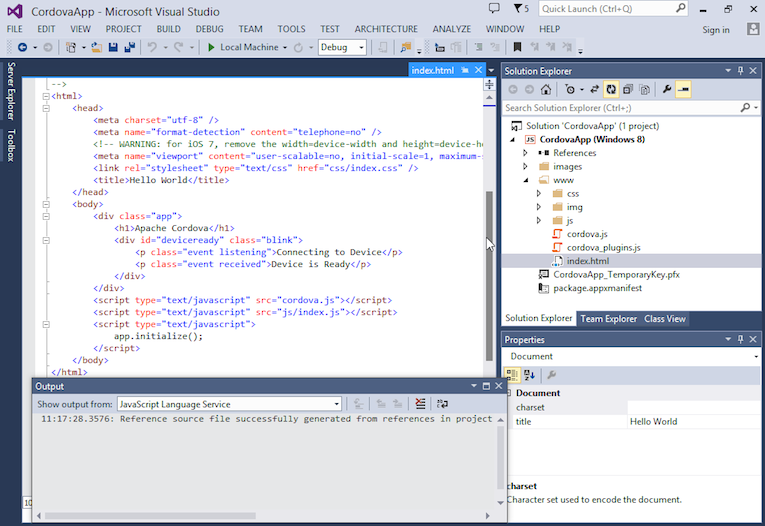
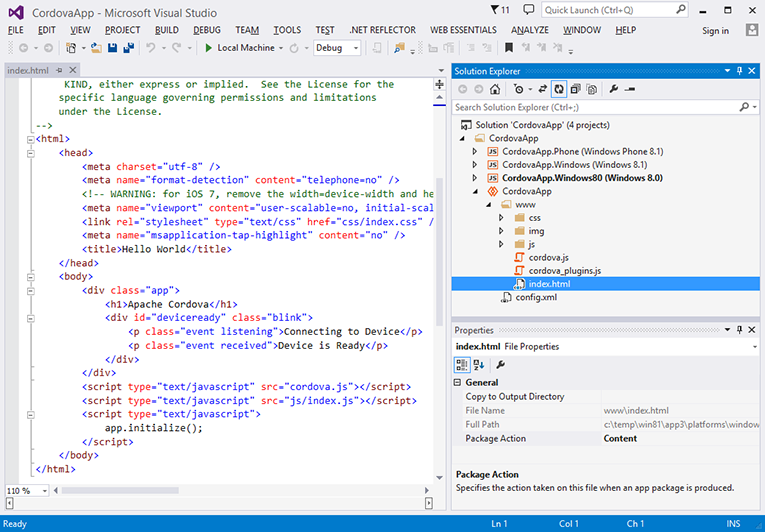
CB-6976 Windows Universal apps

diff --git a/docs/en/edge/guide/platforms/win8/index.md b/docs/en/edge/guide/platforms/win8/index.md
@@ -17,39 +17,47 @@ license: Licensed to the Apache Software Foundation (ASF) under one
          under the License.
 ---
 
-# Windows 8 Platform Guide
+# Windows Platform Guide
 
-This guide shows how to set up your SDK development environment to
-deploy Cordova apps in Windows 8.  It shows how to use either shell
-tools specific to Windows 8 to generate and build apps, or the
-cross-platform Cordova CLI discussed in The Command-Line Interface.
+This guide shows how to set up your SDK development environment to build 
+and deploy Cordova apps for Windows 8, Windows 8.1 and Windows Phone 8.1.
+It shows how to use either shell tools to generate and build apps, or 
+the cross-platform Cordova CLI discussed in The Command-Line Interface.
 (See the Overview for a comparison of these development options.) This
 section also shows how to modify Cordova apps within Visual Studio.
-Regardless of which approach you take, you need to install the Visual
-Studio SDK, as described below.
+Regardless of which approach you take, you need to install the 
+Visual Studio SDK, as described below.
 
 See Upgrading Windows 8 for information on how to upgrade existing
 Windows 8 Cordova projects.
 
-Cordova WebViews running on Windows 8 rely on Internet Explorer 10 as
-their rendering engine, so as a practical matter you can use IE10's
+Window Phone 8 (wp8) stays as a separate platform,
+see Windows Phone 8 Platform Guide for details.
+
+Cordova WebViews running on Windows rely on Internet Explorer 10 (Windows 8)
+and Internet Explorer 11 (Windows 8.1 and Windows Phone 8.1) as
+their rendering engine, so as a practical matter you can use IE's
 powerful debugger to test any web content that doesn't invoke Cordova
 APIs.  The Windows Phone Developer Blog provides
 [helpful guidance](http://blogs.windows.com/windows_phone/b/wpdev/archive/2012/11/15/adapting-your-webkit-optimized-site-for-internet-explorer-10.aspx)
-on how to support IE10 along with comparable WebKit browsers.
+on how to support IE along with comparable WebKit browsers.
 
 ## Requirements and Support
 
 You need one of the following OS/SDK combinations, either from an
-installation disk or an _ISO_ disk image file:
+installation disk or an _ISO_ disk image file.
+
+To develop apps for Windows 8.0 only:
 
 - Windows 8.0 or 8.1, 32 or 64-bit _Home_, _Pro_, or _Enterprise_
   editions, along with
   [Visual Studio 2012 Express](http://www.visualstudio.com/downloads).
 
+To develop apps for all platforms (Windows 8.0, Windows 8.1 and Windows Phone 8.1):
+
 - Windows 8.1, 32 or 64-bit _Home_, _Pro_, or _Enterprise_ editions,
   along with 
-  [Visual Studio 2013 Pro](http://www.visualstudio.com/downloads)
+  [Visual Studio 2013 Express](http://www.visualstudio.com/downloads)
   or higher. An evaluation version of Windows 8.1 Enterprise is
   available from the
   [Microsoft Developer Network](http://msdn.microsoft.com/en-US/evalcenter/jj554510).
@@ -65,10 +73,10 @@ to submit the app to Windows Store.
 
   <!-- true? -->
 
-To develop Cordova apps for Windows 8, you may use a PC running
+To develop Cordova apps for Windows, you may use a PC running
 Windows, but you may also develop on a Mac, either by running a
 virtual machine environment or by using Boot Camp to dual-boot a
-Windows 8 partition. Consult these resources to set up the required
+Windows 8.1 partition. Consult these resources to set up the required
 Windows development environment on a Mac:
 
 - [VMWare Fusion](http://msdn.microsoft.com/en-US/library/windows/apps/jj945426)
@@ -79,22 +87,22 @@ Windows development environment on a Mac:
   
 ## Using Cordova Shell Tools
 
-If you want to use Cordova's Windows 8-centered shell tools in
+If you want to use Cordova's Windows-centered shell tools in
 conjunction with the SDK, you have two basic options:
 
 - Access them locally from project code generated by the CLI. They are
-  available in the `platforms/windows8/cordova` directory after you add
-  the `windows8` platform as described below.
+  available in the `platforms/windows/cordova` directory after you add
+  the `windows` platform as described below.
 
 - Download them from a separate distribution at
   [cordova.apache.org](http://cordova.apache.org).  The Cordova
   distribution contains separate archives for each platform.  Be sure
-  to expand the appropriate archive, `cordova-windows8\windows8` in
+  to expand the appropriate archive, `cordova-windows\windows` in
   this case, within an empty directory.  The relevant batch utilities
   are available in the top-level `bin` directory. (Consult the
   __README__ file if necessary for more detailed directions.)
 
-These shell tools allow you to create, build, and run Windows 8 apps.
+These shell tools allow you to create, build, and run Windows apps.
 For information on the additional command-line interface that enables
 plugin features across all platforms, see Using Plugman to Manage
 Plugins.
@@ -110,18 +118,18 @@ Install the _Ultimate_, _Premium_, or _Professional_ 2013 editions of
 
 At this point, to create a new project you can choose between the
 cross-platform CLI tool described in The Command-Line Interface, or
-the set of Windows 8-specific shell tools. From within a source-code
+the set of Windows-specific shell tools. From within a source-code
 directory, this CLI approach generates an app named _HelloWorld_
 within a new `hello` project directory:
 
         > cordova create hello com.example.hello HelloWorld
         > cd hello
-        > cordova platform add windows8
+        > cordova platform add windows
         > cordova build
 
 Here's the corresponding lower-level shell-tool approach:
 
-        C:\path\to\cordova-win8\bin\create.bat C:\path\to\new\hello com.example.hello HelloWorld
+        C:\path\to\cordova-win\bin\create.bat C:\path\to\new\hello com.example.hello HelloWorld
 
 ## Build the Project
 
@@ -130,12 +138,10 @@ top-level `www` directory contains the source files. Run either of
 these within the project directory to rebuild the app:
 
         > cordova build
-        > cordova build windows8   # do not rebuild other platforms
+        > cordova build windows   # do not rebuild other platforms
 
-If you are using the Windows Phone-specific shell tools in
-development, there is a different approach.  Once you generate the
-project, the default app's source is available in the
-`projects\windows8\www` subdirectory. Subsequent commands are available in
+Once you generate the project, the default app's source is available in the
+`projects\windows\www` subdirectory. Subsequent commands are available in
 the `cordova` subdirectory at the same level.
 
 The `build` command cleans project files and rebuilds the app.  The first
@@ -149,6 +155,29 @@ The `clean` command helps flush out directories in preparation for the
 next `build`:
 
         C:\path\to\project\cordova\clean.bat
+
+## Configure target Windows version
+
+By default `build` command produces two packages: Windows 8.0 and Windows Phone 8.1.
+To upgrade Windows package to version 8.1 the following configuration setting must be 
+added to configuration file (`config.xml`).
+
+        <preference name='windows-target-version' value='8.1' />
+
+Once you add this setting `build` command will start producing Windows 8.1 
+and Windows Phone 8.1 packages.
+
+## Deploy the app
+
+To deploy Windows Phone package:
+
+        > cordova run windows -- --phone  # deploy app to Windows Phone 8.1 emulator
+        > cordova run windows --device -- --phone  # deploy app to connected device
+
+To deploy Windows package:
+
+        > cordova run windows -- --win  # explicitly specify Windows as deployment target
+        > cordova run windows # `run` uses Windows package by default
 
 ## Open the Project in the SDK and Deploy the App
 

diff --git a/docs/en/edge/guide/cli/index.md b/docs/en/edge/guide/cli/index.md
@@ -44,7 +44,7 @@ platform's SDK. The CLI supports the following combinations:
 * Android         (Mac, Linux, Windows)
 * BlackBerry 10   (Mac, Linux, Windows)
 * Windows Phone 8 (Windows)
-* Windows 8       (Windows)
+* Windows         (Windows)
 * Firefox OS      (Mac, Linux, Windows)
 
 On the Mac, the command-line is available via the _Terminal_
@@ -54,7 +54,7 @@ _Accessories_.
 __NOTE__: For Windows-only platforms, you can still do your
 development on Mac hardware by running Windows in a virtual machine
 environment or in dual-boot mode. For available options, see the
-Windows Phone Platform Guide or the Windows 8 Platform Guide.
+Windows Phone 8 Platform Guide or the Windows Platform Guide.
 
 The more likely it is that you run the CLI from different machines,
 the more it makes sense to maintain a remote source code repository,
@@ -170,7 +170,7 @@ Run any of these from a Windows machine, where _wp_ refers to
 different versions of the Windows Phone operating system:
 
         $ cordova platform add wp8
-        $ cordova platform add windows8
+        $ cordova platform add windows
         $ cordova platform add amazon-fireos
         $ cordova platform add android
         $ cordova platform add blackberry10

diff --git a/docs/en/edge/guide/support/index.md b/docs/en/edge/guide/support/index.md
@@ -39,8 +39,8 @@ CLI's shorthand names.
         <th><tt>Firefox OS</tt></th>
         <th><tt>ios</tt></th>
         <th><tt>Ubuntu</tt></th>
-        <th><tt>wp8</tt> (Windows<br/>Phone 8)</th>
-        <th><tt>win8</tt><br/>(Windows 8)</th>
+        <th><tt>wp8</tt><br/>(Windows Phone 8)</th>
+        <th><tt>windows</tt><br/>(8.0, 8.1,<br/>Phone 8.1)</th>
         <th><tt>tizen</tt></th>
     </tr>
 
@@ -139,7 +139,7 @@ CLI's shorthand names.
         <td data-col="ios"        class="y"></td>
         <td data-col="ubuntu"        class="y"></td>
         <td data-col="winphone8"  class="y"></td>
-        <td data-col="win8"       class="n"></td>
+        <td data-col="win8"       class="y"></td>
         <td data-col="tizen"       class="n"></td>
     </tr>
 
@@ -178,7 +178,7 @@ CLI's shorthand names.
         <td data-col="ios"        class="y"></td>
         <td data-col="ubuntu"        class="y"></td>
         <td data-col="winphone8"  class="y"></td>
-        <td data-col="win8"       class="n"></td>
+        <td data-col="win8"       class="p">partially</td>
         <td data-col="tizen"       class="n"></td>
     </tr>
 

diff --git a/docs/en/edge/guide/platforms/wp8/index.md b/docs/en/edge/guide/platforms/wp8/index.md
@@ -17,7 +17,7 @@ license: Licensed to the Apache Software Foundation (ASF) under one
          under the License.
 ---
 
-# Windows Phone Platform Guide
+# Windows Phone 8 Platform Guide
 
 This guide shows how to set up your SDK development environment to
 deploy Cordova apps for Windows Phone devices.  It focuses on Windows
@@ -34,8 +34,8 @@ Phone SDK, as described below.
 
 See the following for details specific to the Windows Phone platform:
 
-- Windows Phone Plugins
-- Upgrading Windows Phone
+- Windows Phone 8 Plugins
+- Upgrading Windows Phone 8
 
 For the Windows Phone 8 platform, the Cordova WebView relies on
 Internet Explorer 10 as its rendering engine, so as a practical matter

diff --git a/docs/en/edge/guide/platforms/index.md b/docs/en/edge/guide/platforms/index.md
@@ -79,15 +79,15 @@ a lower-level alternative to the `cordova` command-line utility.
 
 * Ubuntu Platform Guide
 
-## Windows Phone
+## Windows Phone 8
 
-* Windows Phone Platform Guide
-* Windows Phone Plugins
-* Upgrading Windows Phone
+* Windows Phone 8 Platform Guide
+* Windows Phone 8 Plugins
+* Upgrading Windows Phone 8
 
-## Windows 8
+## Windows
 
-* Windows 8 Platform Guide
+* Windows Platform Guide
 * Upgrading Windows 8
 
 ## Tizen

diff --git a/docs/en/edge/guide/platforms/win8/upgrade.md b/docs/en/edge/guide/platforms/win8/upgrade.md
@@ -24,7 +24,7 @@ Most of these instructions apply to projects created with an older set
 of command-line tools that precede the `cordova` CLI utility. See The Command-Line Interface for information how to update the
 version of the CLI.
 
-## Upgrade to 3.2.0 from 3.1.0
+## Upgrade to 3.6.0 from 3.1.0 or later
 
 For projects that were created with the cordova CLI: 
 

diff --git a/docs/en/edge/guide/platforms/wp8/upgrade.md b/docs/en/edge/guide/platforms/wp8/upgrade.md
@@ -17,7 +17,7 @@ license: Licensed to the Apache Software Foundation (ASF) under one
          under the License.
 ---
 
-# Upgrading Windows Phone
+# Upgrading Windows Phone 8
 
 This guide shows how to modify Windows Phone 8 projects, to upgrade from older versions of Cordova. Some of these
 instructions apply to projects created with an older set of

diff --git a/docs/en/edge/guide/platforms/wp8/parallels.md b/docs/en/edge/guide/platforms/wp8/parallels.md
@@ -43,4 +43,4 @@ Desktop. After installing Windows, follow these steps:
    ![](img/guide/platforms/wp8/parallel_optimize_opts.png)
 
 Once you complete these steps, you are ready to install the Windows
-Phone SDK.  See the Windows Phone Platform Guide for details.
+Phone SDK.  See the Windows Phone 8 Platform Guide for details.

diff --git a/docs/en/edge/guide/platforms/wp8/plugin.md b/docs/en/edge/guide/platforms/wp8/plugin.md
@@ -17,7 +17,7 @@ license: Licensed to the Apache Software Foundation (ASF) under one
          under the License.
 ---
 
-# Windows Phone Plugins
+# Windows Phone 8 Plugins
 
 This section provides details for how to implement native plugin code
 on the Windows Phone platform. Before reading this, see Application

diff --git a/docs/en/edge/guide/platforms/wp8/vmware.md b/docs/en/edge/guide/platforms/wp8/vmware.md
@@ -51,4 +51,4 @@ Fusion.  After installing Windows, follow these steps:
         vhv.enable = "TRUE"
 
 Once you complete these steps, you are then ready to install the
-Windows Phone SDK.  See the Windows Phone Platform Guide for details.
+Windows Phone SDK.  See the Windows Phone 8 Platform Guide for details.
